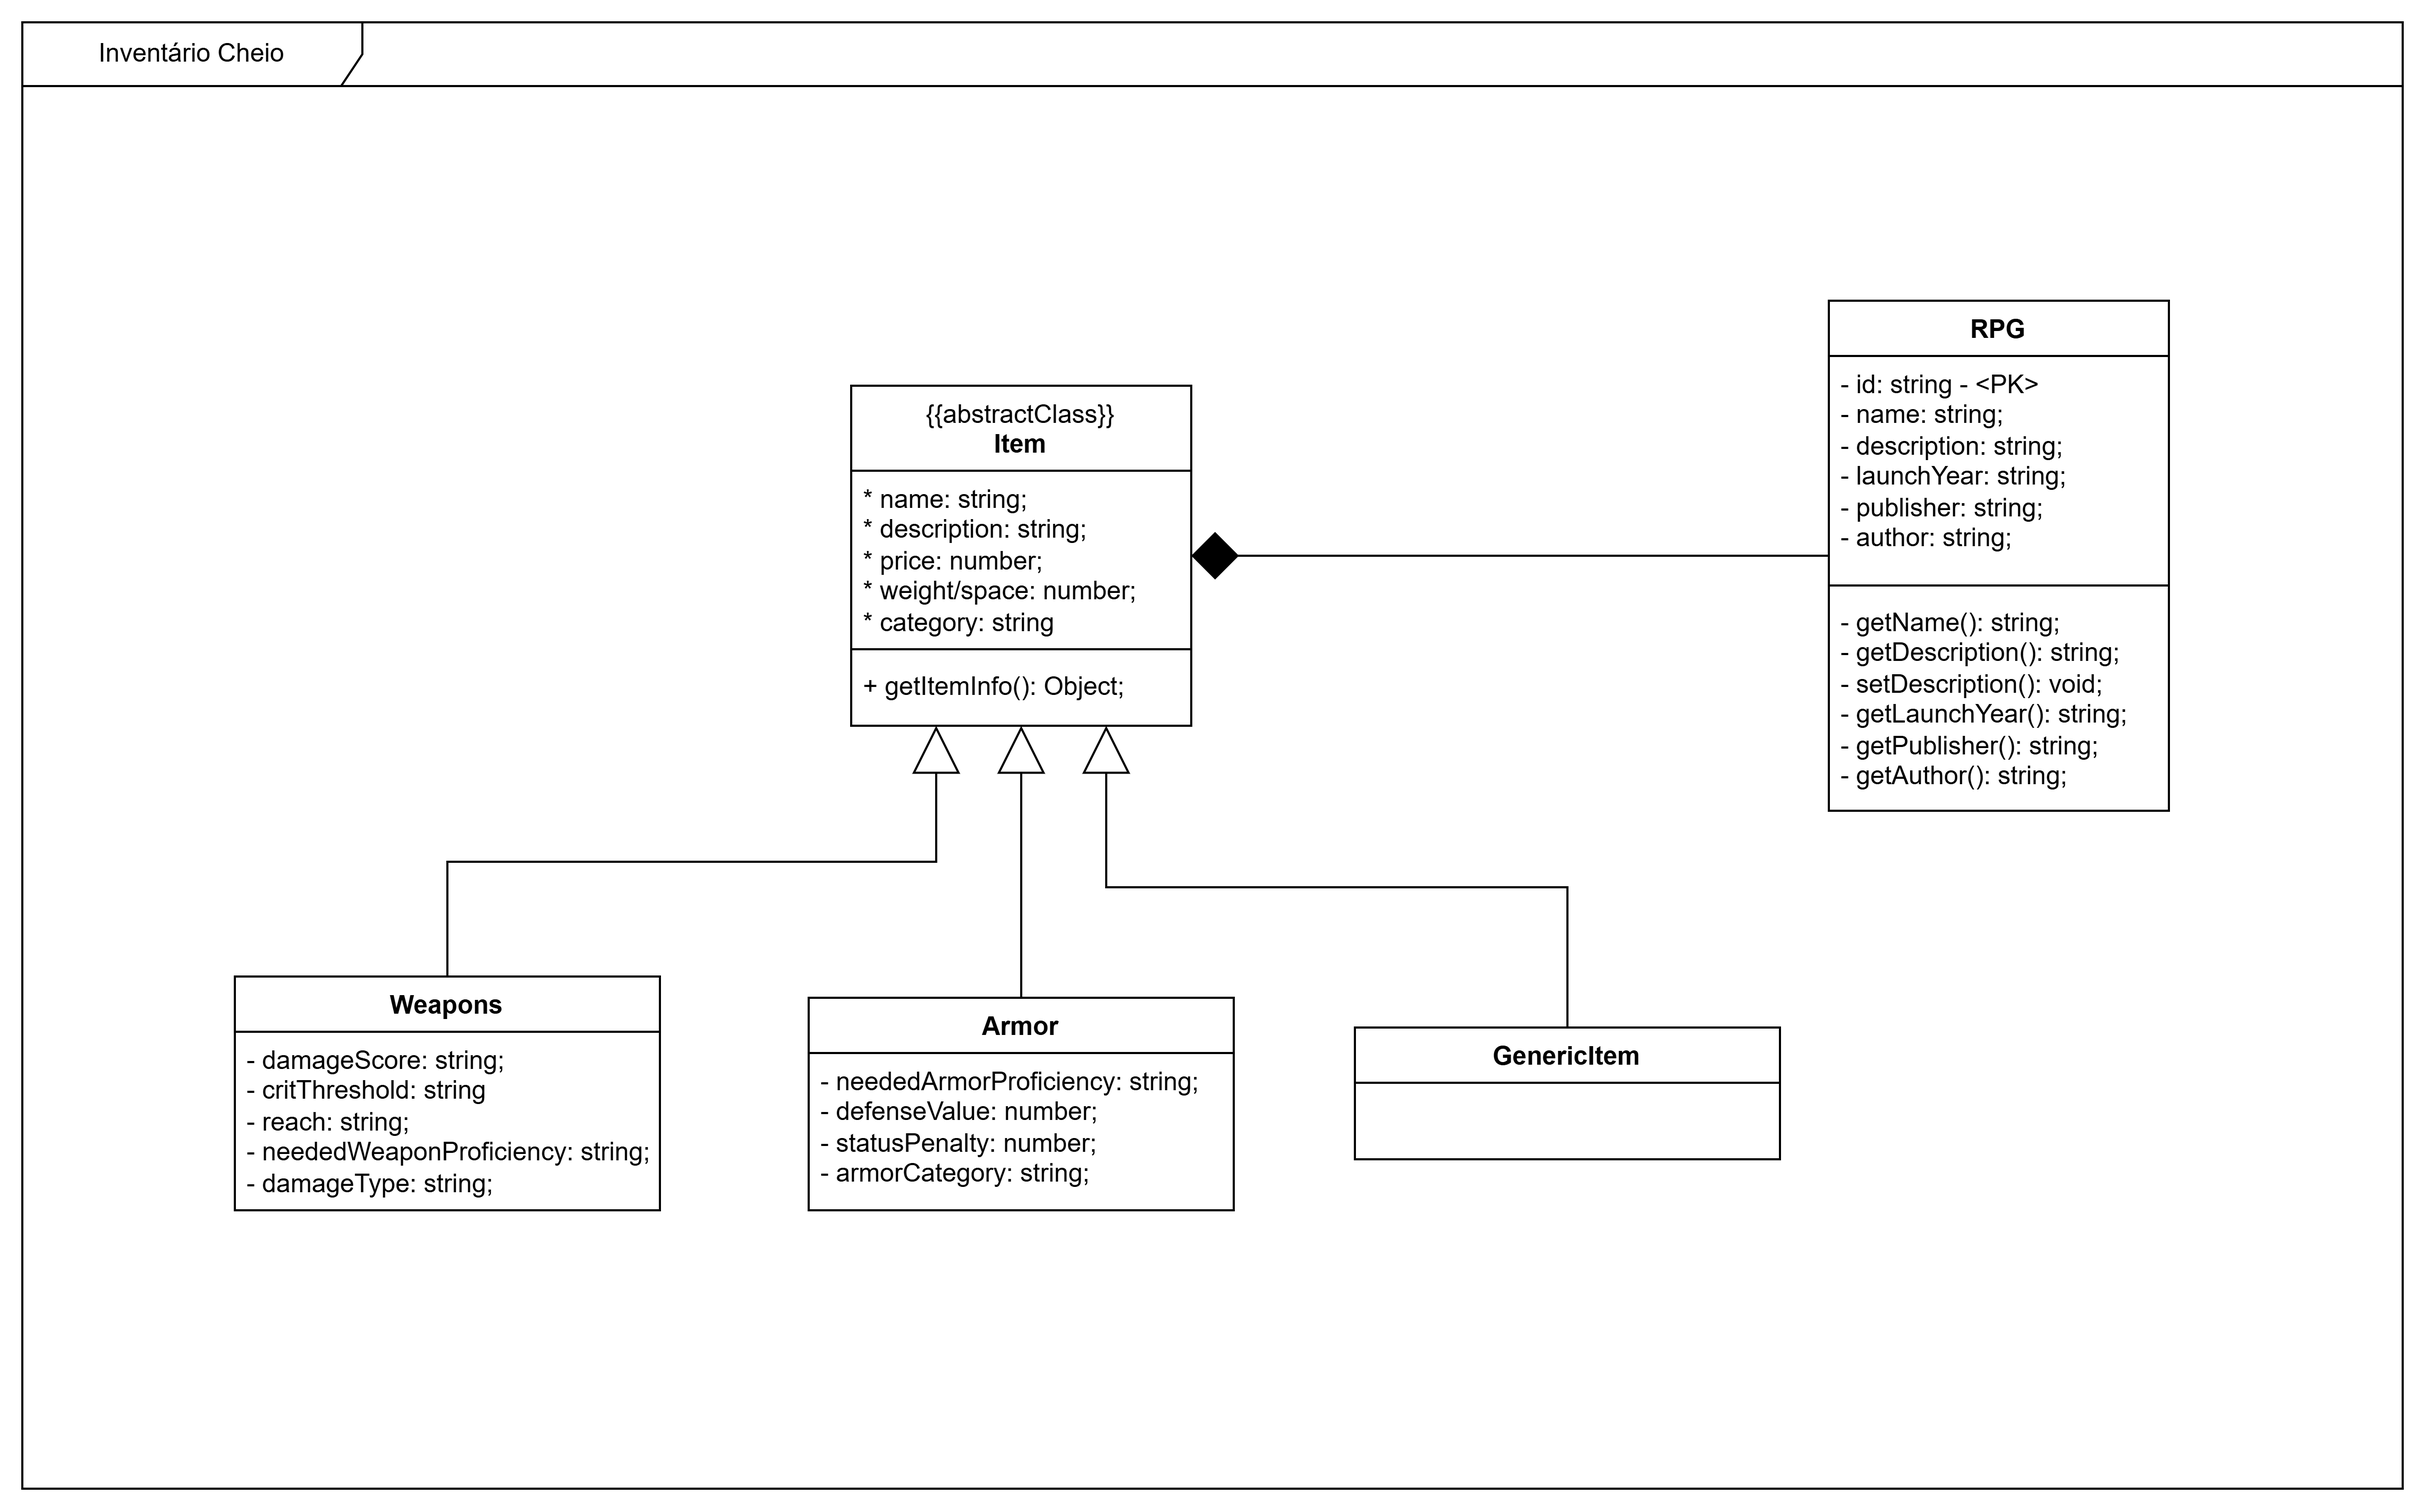
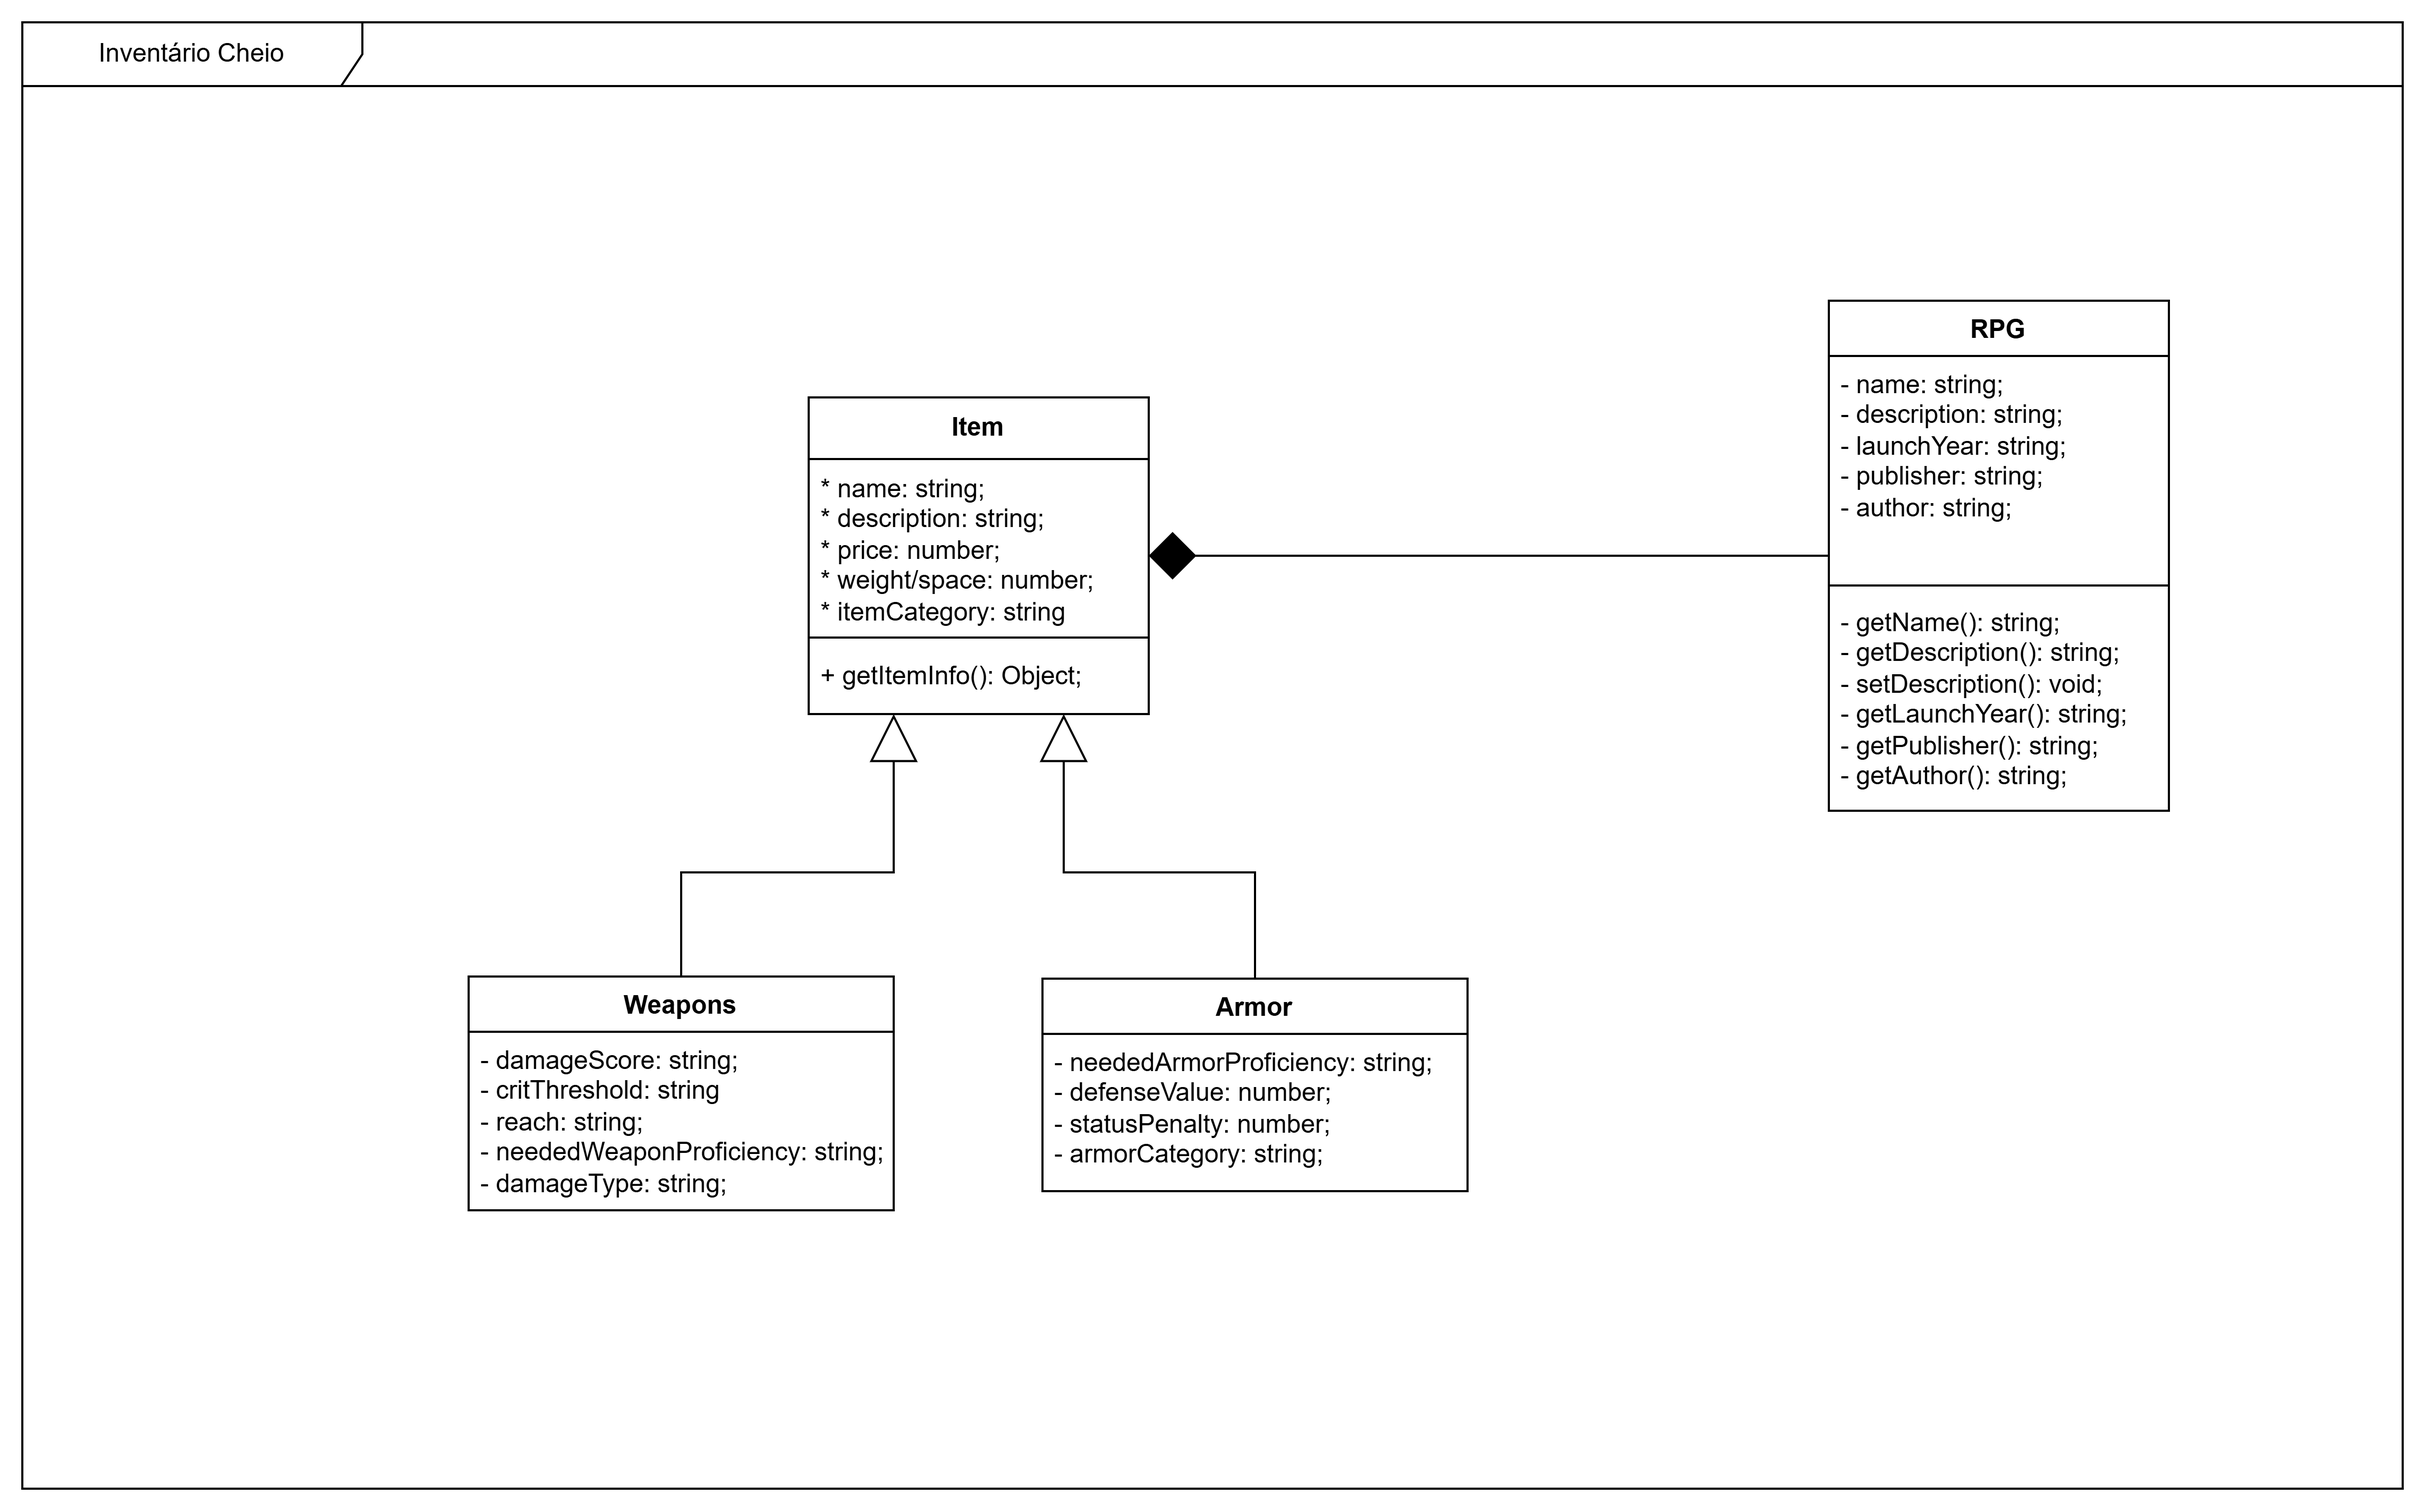
adiciona bloco básico de items e funcionalidade de criação a partir de factory method

diff --git a/src/item/dto/create-item.dto.ts b/src/item/dto/create-item.dto.ts
@@ -1,0 +1,85 @@
+import {
+  IsEnum,
+  IsNotEmpty,
+  IsNumber,
+  IsString,
+  ValidateIf,
+} from 'class-validator';
+import { Item } from '../entity/item.entity';
+import { ItemCategory } from '../enum/item-category.enum';
+
+export class CreateItemDto {
+  @IsString()
+  @IsNotEmpty()
+  name: string;
+
+  @IsString()
+  @IsNotEmpty()
+  description: string;
+
+  @IsEnum(ItemCategory)
+  @IsNotEmpty()
+  category: ItemCategory;
+
+  @IsNumber()
+  @IsNotEmpty()
+  price: number;
+
+  @IsNumber()
+  @IsNotEmpty()
+  weight: number;
+
+  @IsString()
+  @IsNotEmpty()
+  rpgId: string;
+
+  @ValidateIf((o: Item) => o.category === ItemCategory.WEAPON)
+  @IsString()
+  @IsNotEmpty()
+  damageScore?: string;
+
+  @ValidateIf((o: Item) => o.category === ItemCategory.WEAPON)
+  @IsNumber()
+  @IsNotEmpty()
+  critThreshold?: number;
+
+  @ValidateIf((o: Item) => o.category === ItemCategory.WEAPON)
+  @IsNumber()
+  @IsNotEmpty()
+  critMultiplier?: number;
+
+  @ValidateIf((o: Item) => o.category === ItemCategory.WEAPON)
+  @IsString()
+  @IsNotEmpty()
+  reach?: string;
+
+  @ValidateIf((o: Item) => o.category === ItemCategory.WEAPON)
+  @IsString()
+  @IsNotEmpty()
+  neededWeaponProficiency?: string;
+
+  @ValidateIf((o: Item) => o.category === ItemCategory.WEAPON)
+  @IsString()
+  @IsNotEmpty()
+  damageType?: string;
+
+  @ValidateIf((o: Item) => o.category === ItemCategory.ARMOR)
+  @IsString()
+  @IsNotEmpty()
+  neededArmorProficiency?: string;
+
+  @ValidateIf((o: Item) => o.category === ItemCategory.ARMOR)
+  @IsNumber()
+  @IsNotEmpty()
+  protectionScore?: number;
+
+  @ValidateIf((o: Item) => o.category === ItemCategory.ARMOR)
+  @IsNumber()
+  @IsNotEmpty()
+  movementPenalty?: number;
+
+  @ValidateIf((o: Item) => o.category === ItemCategory.ARMOR)
+  @IsString()
+  @IsNotEmpty()
+  armorCategory?: string;
+}

diff --git a/src/item/item.factory.ts b/src/item/item.factory.ts
@@ -1,4 +1,36 @@
 import { Injectable } from '@nestjs/common';
+import { CreateItemDto } from './dto/create-item.dto';
+import { ItemCategory } from './enum/item-category.enum';
+import { Weapon } from './entity/weapon.entity';
+import { Armor } from './entity/armor.entity';
+import { Item } from './entity/item.entity';
 
 @Injectable()
-export class ItemFactory {}
+export class ItemFactory {
+  create(createItemDto: CreateItemDto) {
+    switch (createItemDto.category) {
+      case ItemCategory.ARMOR: {
+        const newArmor = new Armor();
+        Object.assign(newArmor, createItemDto);
+        return newArmor;
+      }
+      case ItemCategory.WEAPON: {
+        const newWeapon = new Weapon();
+        Object.assign(newWeapon, createItemDto);
+        return newWeapon;
+      }
+      case ItemCategory.CLOTHING:
+      case ItemCategory.FOOD:
+      case ItemCategory.CONSUMABLE: {
+        const newItem = new Item();
+        Object.assign(newItem, createItemDto);
+        return newItem;
+      }
+      default: {
+        const newItem = new Item();
+        Object.assign(newItem, createItemDto);
+        return newItem;
+      }
+    }
+  }
+}

diff --git a/src/item/item.service.ts b/src/item/item.service.ts
@@ -1,4 +1,22 @@
 import { Injectable } from '@nestjs/common';
+import { ItemFactory } from './item.factory';
+import { InjectRepository } from '@nestjs/typeorm';
+import { Repository } from 'typeorm';
+import { Item } from './entity/item.entity';
+import { CreateItemDto } from './dto/create-item.dto';
 
 @Injectable()
-export class ItemService {}
+export class ItemService {
+  constructor(
+    private readonly itemFactory: ItemFactory,
+    @InjectRepository(Item) private readonly itemRepository: Repository<Item>,
+  ) {}
+
+  async createItem(createItemDto: CreateItemDto) {
+    const item = this.itemFactory.create(createItemDto);
+
+    const createdItem = await this.itemRepository.save(item);
+
+    return createdItem;
+  }
+}

diff --git a/src/item/entity/weapon.entity.ts b/src/item/entity/weapon.entity.ts
@@ -3,23 +3,23 @@ import { ChildEntity, Column } from 'typeorm';
 
 @ChildEntity()
 export class Weapon extends Item {
-  @Column()
-  damageScore: number;
+  @Column({ nullable: true })
+  damageScore: string;
 
-  @Column()
+  @Column({ nullable: true })
   reach: number;
 
-  @Column()
-  criticalThreshold: string;
+  @Column({ nullable: true })
+  critThreshold: string;
 
-  @Column()
-  criticalMultiplier: number;
+  @Column({ nullable: true })
+  critMultiplier: number;
 
-  @Column()
+  @Column({ nullable: true })
   damageType: string;
 
-  @Column()
-  neededProficiency: string;
+  @Column({ nullable: true })
+  neededWeaponProficiency: string;
 
   getItemInfo() {}
 }

diff --git a/src/rpg/rpg.service.ts b/src/rpg/rpg.service.ts
@@ -36,14 +36,20 @@ export class RpgService {
 
   async updateRpgInfo() {}
 
-  async getRpgItems(id: string) {
+  async getRpgItems(id: string, paginationQuery?: QueryPaginationDto) {
     console.log(id);
     const items = await this.itemRepository.find({
       where: {
         rpgId: id,
       },
     });
-    return items;
+
+    const paginatedData = this.paginationService.returnPaginatedData<Item>(
+      items,
+      paginationQuery,
+    );
+
+    return paginatedData;
   }
 
   async getRpgItemInfo(id: string, itemId: string) {

diff --git a/src/item/item.controller.ts b/src/item/item.controller.ts
@@ -1,4 +1,13 @@
-import { Controller } from '@nestjs/common';
+import { Body, Controller, Post } from '@nestjs/common';
+import { ItemService } from './item.service';
+import { CreateItemDto } from './dto/create-item.dto';
 
 @Controller('item')
-export class ItemController {}
+export class ItemController {
+  constructor(private readonly itemService: ItemService) {}
+
+  @Post()
+  createItem(@Body() createItemDto: CreateItemDto) {
+    return this.itemService.createItem(createItemDto);
+  }
+}

diff --git a/src/main.ts b/src/main.ts
@@ -1,9 +1,11 @@
 import { NestFactory } from '@nestjs/core';
 import { AppModule } from './app.module';
 import { DocumentBuilder, SwaggerModule } from '@nestjs/swagger';
+import { ValidationPipe } from '@nestjs/common';
 
 async function bootstrap() {
   const app = await NestFactory.create(AppModule);
+  app.useGlobalPipes(new ValidationPipe({ whitelist: true }));
 
   const swaggerConf = new DocumentBuilder()
     .setTitle('Inventário Cheio')

diff --git a/src/item/entity/armor.entity.ts b/src/item/entity/armor.entity.ts
@@ -3,16 +3,16 @@ import { Item } from './item.entity';
 
 @ChildEntity()
 export class Armor extends Item {
-  @Column()
+  @Column({ nullable: true })
   protectionScore: number;
 
-  @Column()
+  @Column({ nullable: true })
   neededArmorProficiency: string;
 
-  @Column()
+  @Column({ nullable: true })
   movementPenalty: number;
 
-  @Column()
+  @Column({ nullable: true })
   armorCategory: string;
 
   getItemInfo() {}

diff --git a/src/item/entity/item.entity.ts b/src/item/entity/item.entity.ts
@@ -7,6 +7,7 @@ import {
   PrimaryGeneratedColumn,
   TableInheritance,
 } from 'typeorm';
+import { ItemCategory } from '../enum/item-category.enum';
 
 @Entity()
 @TableInheritance({ column: { type: 'varchar', name: 'category' } })
@@ -21,7 +22,7 @@ export class Item {
   description: string;
 
   @Column()
-  category: string;
+  category: ItemCategory;
 
   @Column()
   price: number;

diff --git a/src/item/enum/item-category.enum.ts b/src/item/enum/item-category.enum.ts
@@ -1,0 +1,7 @@
+export enum ItemCategory {
+  WEAPON = 'WEAPON',
+  ARMOR = 'ARMOR',
+  CONSUMABLE = 'CONSUMABLE',
+  CLOTHING = 'CLOTHING',
+  FOOD = 'FOOD',
+}

diff --git a/README.md b/README.md
@@ -5,16 +5,16 @@
 1. Descrição
 2. Tecnologias
 3. Documentação
-  3.1 Recursos da Api
-  3.2 Rotas Públicas
-  3.3 Rotas de Administrador
-  3.4 Swagger
+   3.1 Recursos da Api
+   3.2 Rotas Públicas
+   3.3 Rotas de Administrador
+   3.4 Swagger UI
 4. Licença
 5. Autor
 
 ## Descrição
 
-"Inventário Cheio"  é um simples sistema de gerenciamento de items para Sistemas de RPG de mesa. O objetivo do sistema é gerar uma enciclopédia de recursos de RPG, para diferentes comunidades serem capazes de usarem da forma que precisam.
+"Inventário Cheio" é um simples sistema de gerenciamento de items para Sistemas de RPG de mesa. O objetivo do sistema é gerar uma enciclopédia de recursos de RPG, para diferentes comunidades serem capazes de usarem da forma que precisam.
 
 ## Tecnologias
 
@@ -51,6 +51,16 @@ Rotas públicas, usadas para buscar informações acerca dos itens de um RPG
 
 Rotas usadas para modificar e resgatar informações diretamente dos itens registradas na aplicação. Para utilizar essa rota, você precisa de um Bearer Token com permissões corretas.
 
+##### RPG's
+
+| Method | Route        |
+| ------ | ------------ |
+| POST   | /api/rpg     |
+| PATCH  | /api/rpg/:id |
+| DELETE | /api/rpg/:id |
+
+##### Items
+
 | Method | Route          |
 | ------ | -------------- |
 | GET    | /api/items     |
@@ -59,10 +69,11 @@ Rotas usadas para modificar e resgatar informações diretamente dos itens regis
 | PATCH  | /api/items/:id |
 | DELETE | /api/items/:id |
 
-#### Swagger
+#### Swagger UI
 
 Rotas e recursos do sistema também acessíveis via Swagger
-(WIP)
+**Podem ser encontradas ao acessar:**
+http://localhost:<porta>/api
 
 ## Licença
 
